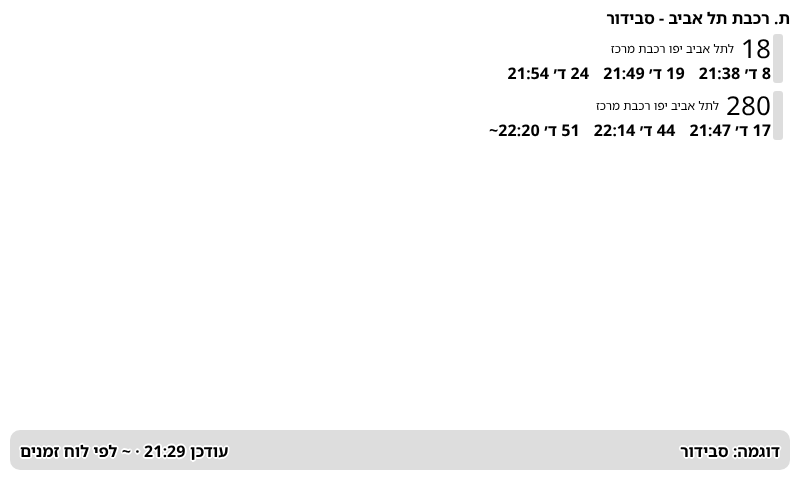
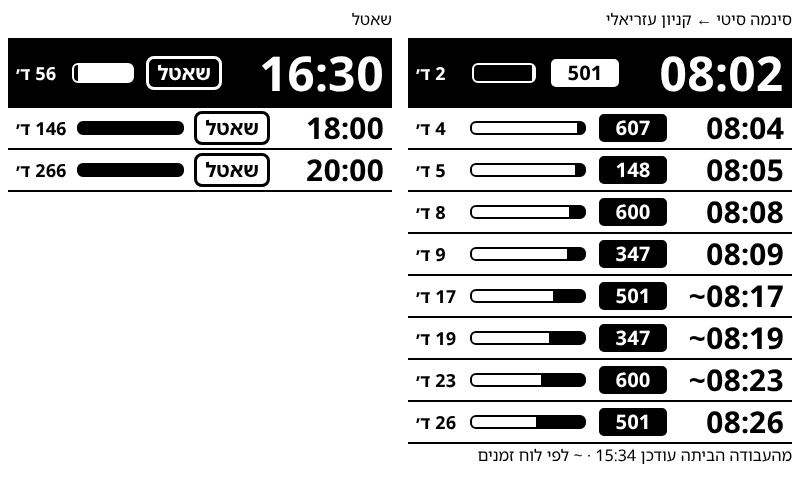
israel-bus: one ruled row per bus, black next-bus block, distance bar
Claude-Session: https://claude.ai/code/session_01PrXYQJGvaebEsufE1J3fYd

diff --git a/israel-bus/board.html b/israel-bus/board.html
@@ -5,17 +5,27 @@
   .ib-board { display: flex; flex-direction: row; align-items: stretch; gap: 16px; }
   .ib-stop { flex: 1 1 0; min-width: 0; display: flex; flex-direction: column; gap: 8px; }
   .ib-head { align-self: stretch; text-align: right; }
-  .ib-deps { display: flex; flex-wrap: wrap; gap: 10px 0; }
-  .ib-dep { flex: 0 0 33.33%; display: flex; flex-direction: column; align-items: center; }
-  .ib-time { font-weight: 700; font-size: 34px; line-height: 1.1; }
+  /* Time blindness: one row per bus, ruled apart; the next bus is a black block; the bar shows how far away each is (full = 60 min+). */
+  .ib-deps { display: flex; flex-direction: column; border-top: 3px solid #000; }
+  .ib-dep { display: flex; align-items: center; gap: 10px; padding: 3px 8px; border-bottom: 2px solid #000; color: #000; }
+  .ib-dep:first-child { background: #000; color: #fff; padding: 6px 8px; gap: 12px; }
+  .ib-time { font-weight: 700; font-size: 30px; line-height: 1.1; width: 104px; flex: none; text-align: right; color: inherit; }
+  .ib-dep:first-child .ib-time { font-size: 48px; width: 150px; }
+  .ib-badge { flex: none; min-width: 52px; padding: 0 8px; text-align: center; font-weight: 700; font-size: 20px; line-height: 1.4; border: 3px solid currentColor; border-radius: 8px; color: inherit; }
+  .ib-badge.ib-fill { background: #000; color: #fff; }
+  .ib-dep:first-child .ib-badge.ib-fill { background: #fff; color: #000; }
+  .ib-track { flex: 1 1 0; min-width: 24px; height: 10px; border: 2px solid currentColor; border-radius: 6px; }
+  .ib-bar { height: 100%; background: currentColor; margin-inline-start: 0; }
+  .ib-dep:first-child .ib-track { height: 16px; }
+  .ib-min { flex: none; font-weight: 700; font-size: 18px; min-width: 44px; text-align: left; color: inherit; }
   .title_bar.ib .instance { text-align: left; }
   /* One payload serves every size; BYOS wraps each layout in .view--{size}. */
   .view--half_vertical .ib-board { flex-direction: column; }
   .view--half_vertical .ib-stop { flex: none; width: 100%; }
   .view--quadrant .ib-stop:nth-of-type(n+2) { display: none; }
-  .view--half_horizontal .ib-dep:nth-of-type(n+7),
-  .view--half_vertical .ib-dep:nth-of-type(n+7),
-  .view--quadrant .ib-dep:nth-of-type(n+7) { display: none; }
+  .view--half_horizontal .ib-dep:nth-of-type(n+4),
+  .view--half_vertical .ib-dep:nth-of-type(n+4),
+  .view--quadrant .ib-dep:nth-of-type(n+4) { display: none; }
 </style>
 <div class="layout ib ib-board" dir="rtl" lang="he">
 {{- if not .Stops}}
@@ -32,8 +42,10 @@
     <div class="ib-deps">
       {{- range .Departures}}
       <div class="ib-dep">
-        <span class="value ib-time" dir="ltr">{{if not .Realtime}}~{{end}}{{.At}}</span>
-        <span class="label label--small">{{.Line}}</span>
+        <span class="ib-time" dir="ltr">{{if not .Realtime}}~{{end}}{{.At}}</span>
+        <span class="ib-badge{{if ne .Line "שאטל"}} ib-fill{{end}}">{{.Line}}</span>
+        <span class="ib-track"><span class="ib-bar" style="display:block;width:{{.Pct}}%"></span></span>
+        <span class="ib-min">{{if eq .Min 0}}עכשיו{{else}}{{.Min}} ד׳{{end}}</span>
       </div>
       {{- end}}
     </div>

diff --git a/israel-bus/main_test.go b/israel-bus/main_test.go
@@ -151,7 +151,8 @@ func TestBoardHTML(t *testing.T) {
 		`dir="rtl"`,
 		"הבית&lt;b&gt;", // title from the query, escaped
 		"ת. רכבת תל אביב - סבידור ← תחנת בדיקה", // names cut at "/"
-		`<span class="label label--small">124</span>`,
+		`ib-fill">124</span>`,
+		"13 ד׳",
 		`dir="ltr">20:13</span>`,  // live
 		`dir="ltr">~20:40</span>`, // scheduled
 	} {
@@ -209,6 +210,14 @@ func TestShuttles(t *testing.T) {
 	for _, x := range d {
 		if x.At == "00:00" && x.Min < 0 {
 			t.Errorf("past time kept: %+v", x)
+		}
+	}
+}
+
+func TestPct(t *testing.T) {
+	for min, want := range map[int]int{0: 4, 30: 50, 60: 100, 200: 100} {
+		if got := (Departure{Arrival: Arrival{Min: min}}).Pct(); got != want {
+			t.Errorf("Pct(%d) = %d, want %d", min, got, want)
 		}
 	}
 }

diff --git a/israel-bus/main.go b/israel-bus/main.go
@@ -138,6 +138,9 @@ type Departure struct {
 	Arrival
 }
 
+// Pct is how far out the bus is on the board's 60-minute bar, never empty so "now" still shows.
+func (d Departure) Pct() int { return max(4, min(d.Min, 60)*100/60) }
+
 // Departures merges every line's arrivals into one chronological list, capped at maxDepartures.
 func (s Stop) Departures() []Departure {
 	var out []Departure

diff --git a/israel-bus/README.md b/israel-bus/README.md
@@ -50,7 +50,7 @@ Env: `LISTEN` (default `:8080`). Run locally with `go run .`; test with `go test
 `src/` holds `settings.yml` and the Liquid templates, which just print the service's `html`
 (or "server unreachable" if the poll failed). The board is Hebrew, right to left; [`board.html`](board.html) is its Go template.
 One payload serves every size: BYOS wraps each layout in `.view--{size}`, and CSS there stacks, trims or hides
-(full: 2 options × 9 departures; halves and quadrant: 6; quadrant: option 1 only).
+(full: 2 options × 9 departures; halves and quadrant: 3; quadrant: option 1 only).
 
 In BYOS Laravel, import the `israel-bus-plugin.zip` from a release (or a zip of `src/`), then set:
 
@@ -66,8 +66,10 @@ One instance per trip. Each trip has up to two ways to leave, e.g. a bus stop an
 | Option N: shuttle times | `16:30, 18:00, 20:00`, merged with the buses; blank stop = shuttles only |
 | Option N: label | blank uses the stop name from the API |
 
-Each option's header reads `from ← to`. The board is station-centric: each stop lists its next buses in time order, clock time big (refreshes are infrequent, so a
-clock time stays true longer than "in 5 min") with the line number just below;
+Each option's header reads `from ← to`. The board is station-centric, built for time blindness: each stop lists its next buses in time order, one ruled row per bus:
+big clock time (refreshes are infrequent, so a clock time stays true longer than "in 5 min"), line number in a badge,
+a bar for how far away it is (full = 60 min or more) and the minutes at poll time. The next bus is a black block;
+shuttles get an outlined badge instead of a filled one;
 a `~` means a scheduled time (no live GPS for that bus).
 
 TRMNL's fonts have no Hebrew, so the board loads Noto Sans Hebrew from Google Fonts. BYOS waits for the network
